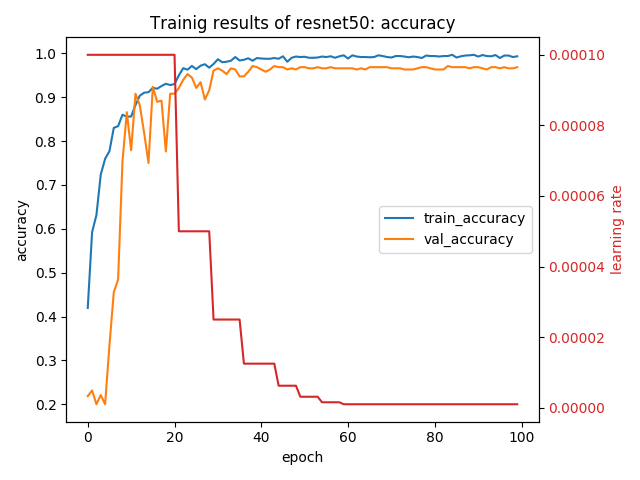
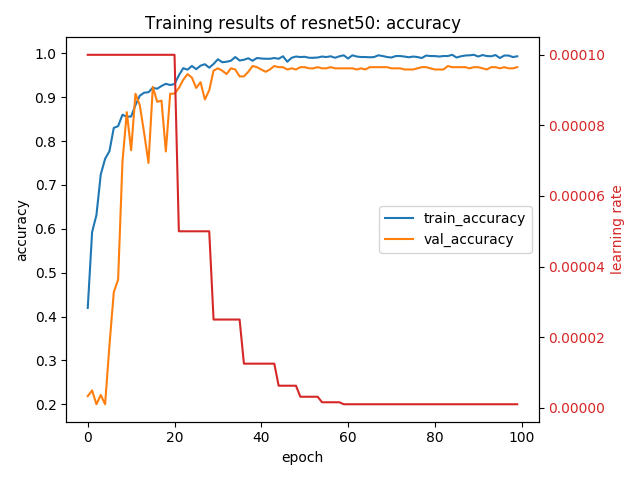
update

Changed region(s): [[0.2188, 0.0312, 0.7188, 0.0625]]

diff --git a/show_training_results.py b/show_training_results.py
@@ -24,7 +24,7 @@ if os.path.isdir(config.train_log_dir):
 
                 fig, ax1 = plt.subplots()
 
-                plt.title("Trainig results of "+model_name+": accuracy")
+                plt.title("Training results of "+model_name+": accuracy")
                 ax1.set_xlabel('epoch')
                 ax1.set_ylabel('accuracy')
                 ax1.plot(x, results['accuracy'])
@@ -46,7 +46,7 @@ if os.path.isdir(config.train_log_dir):
 
                 fig, ax1 = plt.subplots()
 
-                plt.title("Trainig results of "+model_name+": loss")
+                plt.title("Training results of "+model_name+": loss")
                 ax1.set_xlabel('epoch')
                 ax1.set_ylabel('loss')
                 ax1.plot(x, results['loss'])
@@ -66,7 +66,7 @@ if os.path.isdir(config.train_log_dir):
                 plt.clf()
 
 
-                plt.title("Trainig results of "+model_name+": learning rate")
+                plt.title("Training results of "+model_name+": learning rate")
                 x = results['epoch']
                 plt.plot(x, results['lr'])
                 #plt.legend(['learning rate'], loc='upper right')
